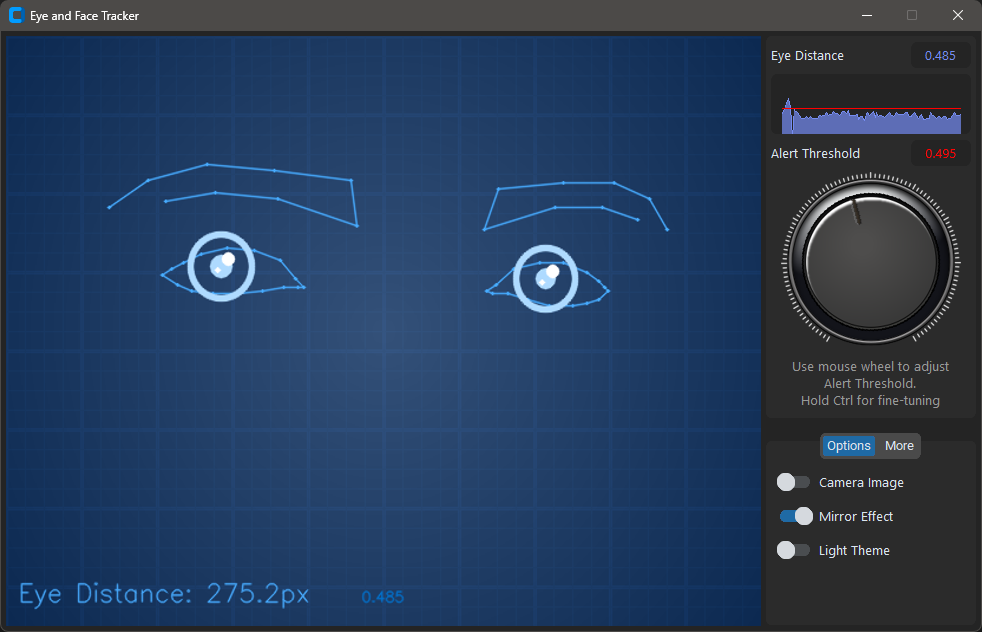
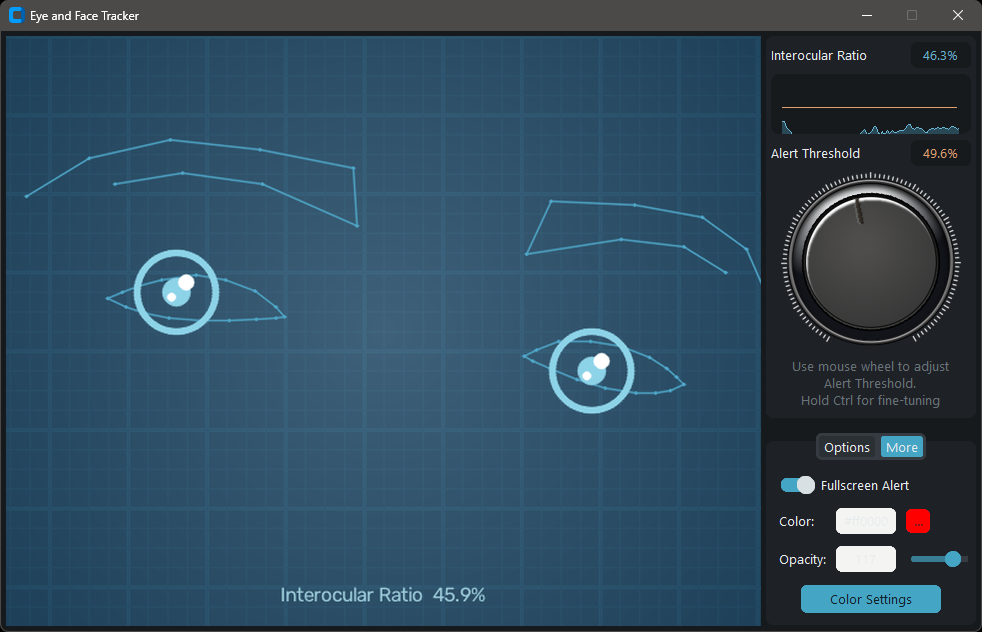
Enhancements

diff --git a/src/image_processor.py b/src/image_processor.py
@@ -465,7 +465,7 @@ class ImageProcessor:
         return self._smoothed_mesh_points.copy()
 
     def _smooth_ratio(self, ratio):
-        """Stabilize the value shown in the UI and used by alert logic."""
+        """Stabilize only the value shown in the UI and chart."""
         ratio = float(ratio)
         if self._smoothed_ratio is None:
             self._smoothed_ratio = ratio
@@ -656,20 +656,31 @@ class ImageProcessor:
 
         # Process landmarks
         face_landmarks = mesh_results.multi_face_landmarks[0]
-        mesh_points = self._process_landmarks(face_landmarks, img_w, img_h)
-        mesh_points = self._smooth_landmarks(mesh_points)
+        raw_mesh_points = self._process_landmarks(
+            face_landmarks,
+            img_w,
+            img_h
+        )
 
-        # Process eyes
+        # Detection uses the current landmarks without temporal smoothing.
+        (
+            _raw_center_left,
+            _raw_center_right,
+            _raw_l_radius,
+            _raw_r_radius,
+            raw_eye_distance
+        ) = self._process_eyes(raw_mesh_points)
+
+        # Presentation uses independent smoothing.
+        display_eye_distance = self._smooth_ratio(raw_eye_distance)
+        mesh_points = self._smooth_landmarks(raw_mesh_points)
         (
             center_left,
             center_right,
             l_radius,
             r_radius,
-            normalized_eye_distance
+            _display_geometry_distance
         ) = self._process_eyes(mesh_points)
-        normalized_eye_distance = self._smooth_ratio(
-            normalized_eye_distance
-        )
 
         # Center mesh points if needed
         if not self.app.app_state.show_camera.get():
@@ -687,11 +698,12 @@ class ImageProcessor:
         frame = self._draw_mesh(frame, mesh_points, center_left, center_right, l_radius, r_radius)
 
         # Draw text
-        self._draw_text(frame, normalized_eye_distance)
+        self._draw_text(frame, display_eye_distance)
 
         return {
             'frame': frame,
-            'normalized_eye_distance': normalized_eye_distance,
+            'normalized_eye_distance': float(raw_eye_distance),
+            'display_eye_distance': float(display_eye_distance),
             'mesh_points': mesh_points,
         }
 
@@ -717,6 +729,7 @@ class ImageProcessor:
         return {
             'frame': frame,
             'normalized_eye_distance': 0,
+            'display_eye_distance': 0,
             'mesh_points': None,
         }
 

diff --git a/src/config.py b/src/config.py
@@ -70,10 +70,8 @@ REFRESH_DELAY_MS = 50
 # smoother but react more slowly to intentional movement.
 LANDMARK_SMOOTHING_ALPHA = 0.20
 
-# Stabilization of the measured ratio and threshold alert state.
+# Stabilization used only for the displayed ratio and chart.
 RATIO_SMOOTHING_ALPHA = 0.25
-ALERT_HYSTERESIS = 0.005
-ALERT_CONFIRMATION_FRAMES = 3
 
 # CHART_BUFFER_SIZE: Size of the buffer for the line chart
 CHART_BUFFER_SIZE = 100

diff --git a/README.md b/README.md
@@ -8,8 +8,8 @@
 [![License](https://img.shields.io/badge/License-MIT-yellow.svg)](https://opensource.org/licenses/MIT)
 
 <div style="display: flex; justify-content: space-between;">
-  <img src="assets/screenshot.png" alt="GazeTracker Dark Theme" width="49%">
   <img src="assets/screenshot_light.png" alt="GazeTracker Light Theme" width="49%">
+  <img src="assets/screenshot.png" alt="GazeTracker Dark Theme" width="49%">
 </div>
 
 [English](#english) | [Русский](#русский)
